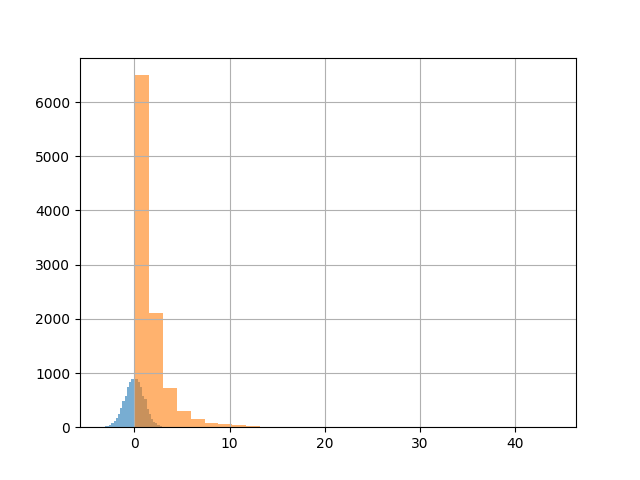
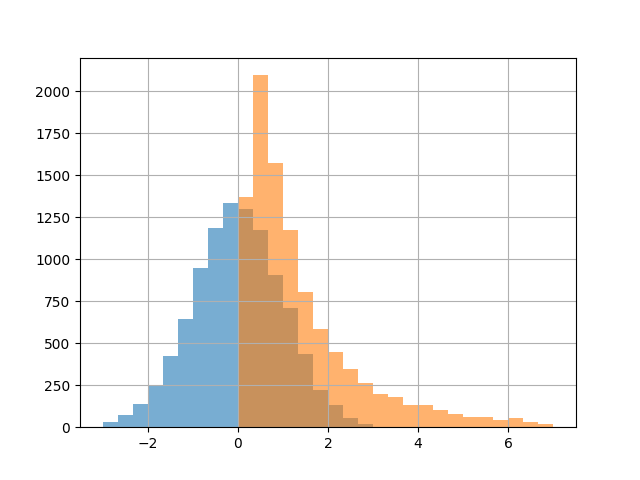
lesson3_statics22

diff --git a/lesson3/lesson3_statics2.py b/lesson3/lesson3_statics2.py
@@ -42,6 +42,6 @@ fname = r"data/" + "testFig02.png"
 
 fname = r"data/" + "testFig03.png"
 plt.figure()
-df["Norm"].hist(bins=30, alpha=0.6)
-df["LogNorm"].hist(bins=30, alpha=0.6)
+df["Norm"].hist(bins=30, alpha=0.6, range=(-3, 7))
+df["LogNorm"].hist(bins=30, alpha=0.6, range=(-3, 7))
 plt.savefig(fname)
